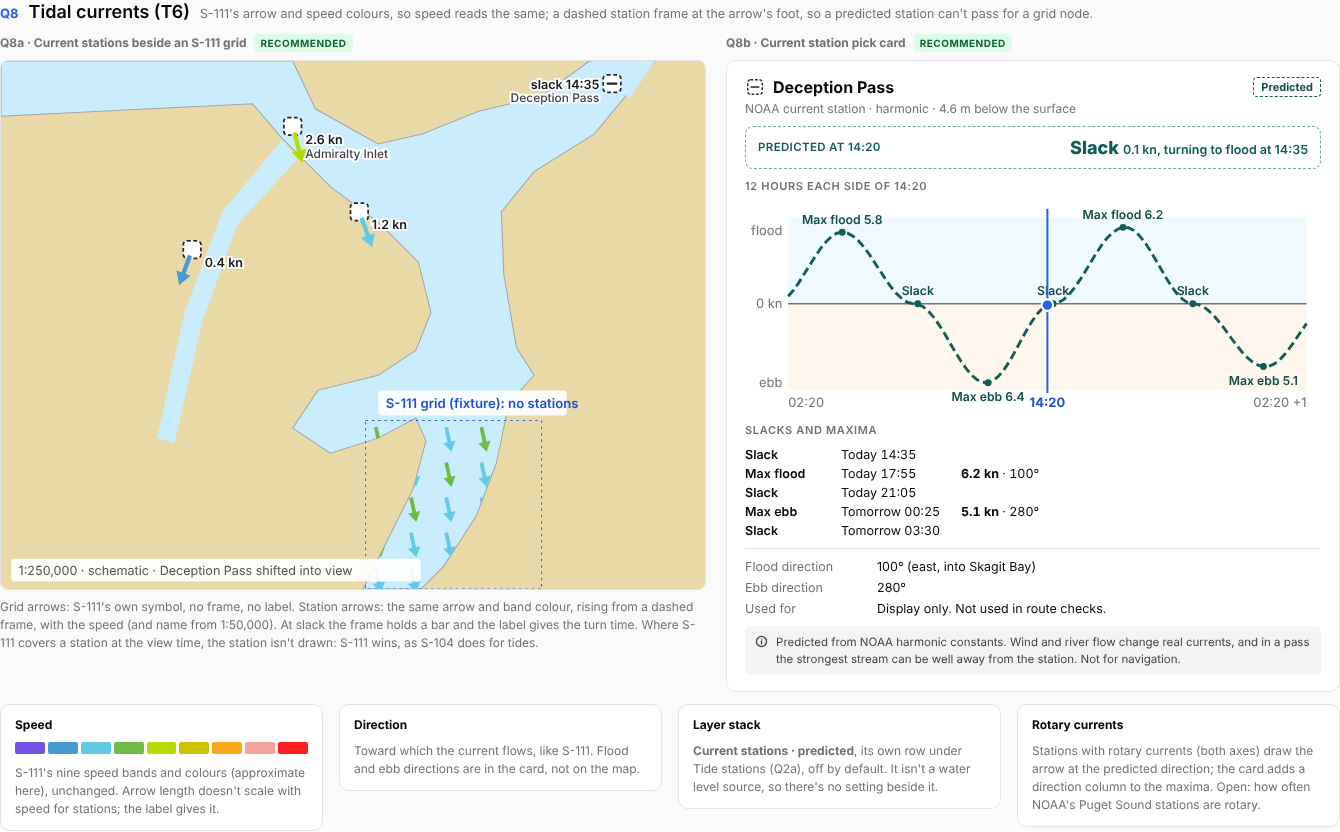
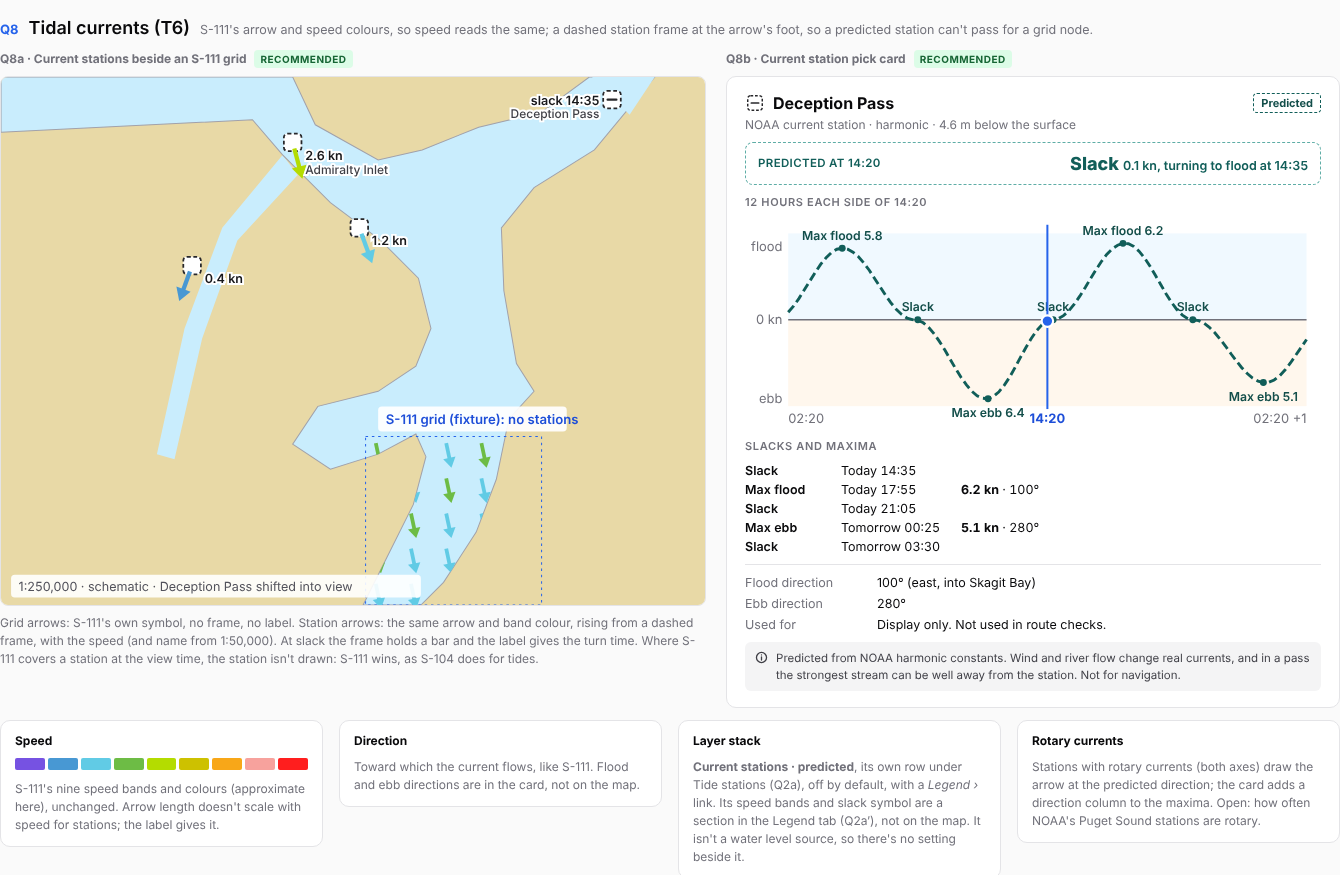
Tide predictions D: move station keys to the Legend tab (#1448)
Per review: the tide and current station keys are Legend tab sections
(legends D1, D4, D8), not a legend under the Layer stack rows. Updates
section 2, section 8, D4, D16 and the frame table; re-captures Q2 and Q8.

Claude-Session: https://claude.ai/code/session_01VAmJZFsGbsUsLMZouaLWac

diff --git a/docs/design/tide-predictions/tide-predictions-design.md b/docs/design/tide-predictions/tide-predictions-design.md
@@ -1,7 +1,8 @@
 # Tide and tidal current predictions: design pass
 
-Status: Proposed (2026-11-11): recommendations awaiting the maintainer's
-decisions. Answers the nine questions in the [brief](tide-predictions-brief.md)
+Status: Proposed (2026-11-11), revised 2026-11-12: recommendations awaiting
+the maintainer's decisions. Revision: the station keys moved from under the
+Layer stack rows to the Legend tab (maintainer's review). Answers the nine questions in the [brief](tide-predictions-brief.md)
 for the design slice
 [#1448](https://github.com/philliphoff/EncDotNet.S100/issues/1448) of epic
 [#1447](https://github.com/philliphoff/EncDotNet.S100/issues/1447). The viewer
@@ -33,7 +34,7 @@ them. Fonts may differ slightly from the canvas.
 |---|---|---|---|
 | Header | — | Recommendations in brief, and the fixture note | [00-header.png](screenshots/00-header.png) |
 | Q1a–Q1c | 1 | The source switch in Mariner Settings, the DEPTHS flyout's offer, and how the switch and the station overlay relate | [01-q1-turning-it-on.png](screenshots/01-q1-turning-it-on.png) |
-| Q2a, Q2b | 2 | A Layer stack row (recommended) and a Display controls section (alternative) | [02-q2-stations-placement-glyphs.png](screenshots/02-q2-stations-placement-glyphs.png) |
+| Q2a, Q2a′, Q2b | 2 | A Layer stack row with a **Legend ›** link (recommended), its key as Legend tab sections, and a Display controls section (alternative) | [02-q2-stations-placement-glyphs.png](screenshots/02-q2-stations-placement-glyphs.png) |
 | G1–G4 | 2 | Station glyph options beside today's S-104 gauge | ″ |
 | Q2c–Q2e | 2 | Puget Sound at 1:250,000: no decluttering, thinned (recommended), clustered | [03-q2-stations-declutter.png](screenshots/03-q2-stations-declutter.png) |
 | Q3a–Q3d | 3 | Pick cards for a harmonic station, a subordinate station, a station S-104 also covers, and a calendar-day curve (rejected) | [04-q3-station-pick.png](screenshots/04-q3-station-pick.png) |
@@ -89,13 +90,22 @@ separate switch (Q1a–Q1c).
 ## 2. Stations on the map
 
 Recommendation: a **Tide stations · predicted** row under *Other chart
-overlays* in the Layer stack, off by default and kept after a restart, with a
-small legend under the row (Q2a). Glyph G1. Thinning Q2d.
+overlays* in the Layer stack, off by default and kept after a restart (Q2a).
+Its key is a section in the Legend tab, with every other product's (Q2a′).
+Glyph G1. Thinning Q2d.
 
 - **Layer stack, not Display controls.** Display controls sections appear only
   while a product is loaded (Weather, Bathymetry, AML). Predictions have no
   loaded product, so a section would need a new rule to show. A live overlay
   with no dataset is what NDBC's row already is.
+- **The key goes in the Legend tab** ([legends](../legends.md) D1, D4, D8).
+  The row carries only the one-line **Legend ›** link that every Layer stack
+  entry with a legend now has. The Legend tab gets a **Tide stations ·
+  predicted** section while the row is on: rising, falling, turning, and the
+  height label, with the caption "Height above chart datum at the view time ·
+  dashed frame = predicted". It comes from an `ILegendSectionSource`, like the
+  route check and Library coverage, so MCP `get_legend` lists it too. The
+  S-104 section keeps explaining S-104's own gauges.
 - **Glyph: the S-104 gauge with a dashed frame** (G1): rising, falling or a
   bar for turning (within 20 minutes of a high or low). The height above the
   station datum sits beside it from 1:150,000, the name from 1:50,000.
@@ -270,7 +280,9 @@ a stale notice in the flyout (Q7c).
 ## 8. Tidal currents (T6)
 
 Recommendation: a **Current stations · predicted** row under Tide stations,
-off by default (Q8a, Q8b).
+off by default (Q8a, Q8b), with its key as a **Current stations · predicted**
+section in the Legend tab (Q2a′): S-111's speed bands, the slack bar, and the
+caption "Speed, kn · arrow points where the current flows".
 
 - **Glyph:** S-111's arrow and its nine speed-band colours, rising from the
   same dashed station frame, with the speed ("2.6 kn") and, from 1:50,000, the
@@ -333,7 +345,10 @@ Proposed, for #1453 (tides) and #1454 (currents) to cite once confirmed.
    it.
 3. **D3 Overlay and source are independent.** Neither turns the other on.
 4. **D4 Station overlay.** A **Tide stations · predicted** row under *Other
-   chart overlays*, off by default, kept after a restart, with a row legend.
+   chart overlays*, off by default, kept after a restart. Its key is a
+   **Tide stations · predicted** section in the Legend tab (legends D1, D4),
+   from an `ILegendSectionSource`; the row has only the **Legend ›** link
+   (legends D8). No legend on the map or under the row.
    Drawn from 1:500,000; heights from 1:150,000; names from 1:50,000.
 5. **D5 Predicted glyph.** The S-104 gauge symbol with a dashed frame
    (rising, falling, turning within 20 minutes of a high or low). Harmonic and
@@ -376,7 +391,7 @@ Proposed, for #1453 (tides) and #1454 (currents) to cite once confirmed.
     and **Refresh**. A date line under the switch. A stale notice in the
     flyout after 12 months.
 16. **D16 Current stations.** A **Current stations · predicted** row, off by
-    default. S-111 arrow and speed colours from a dashed frame, speed label,
+    default, with its key as a section in the Legend tab (as D4). S-111 arrow and speed colours from a dashed frame, speed label,
     slack bar with turn time. Hidden where S-111 covers. Pick card with
     slacks and maxima, flood and ebb directions, current depth, "Not used in
     route checks".
